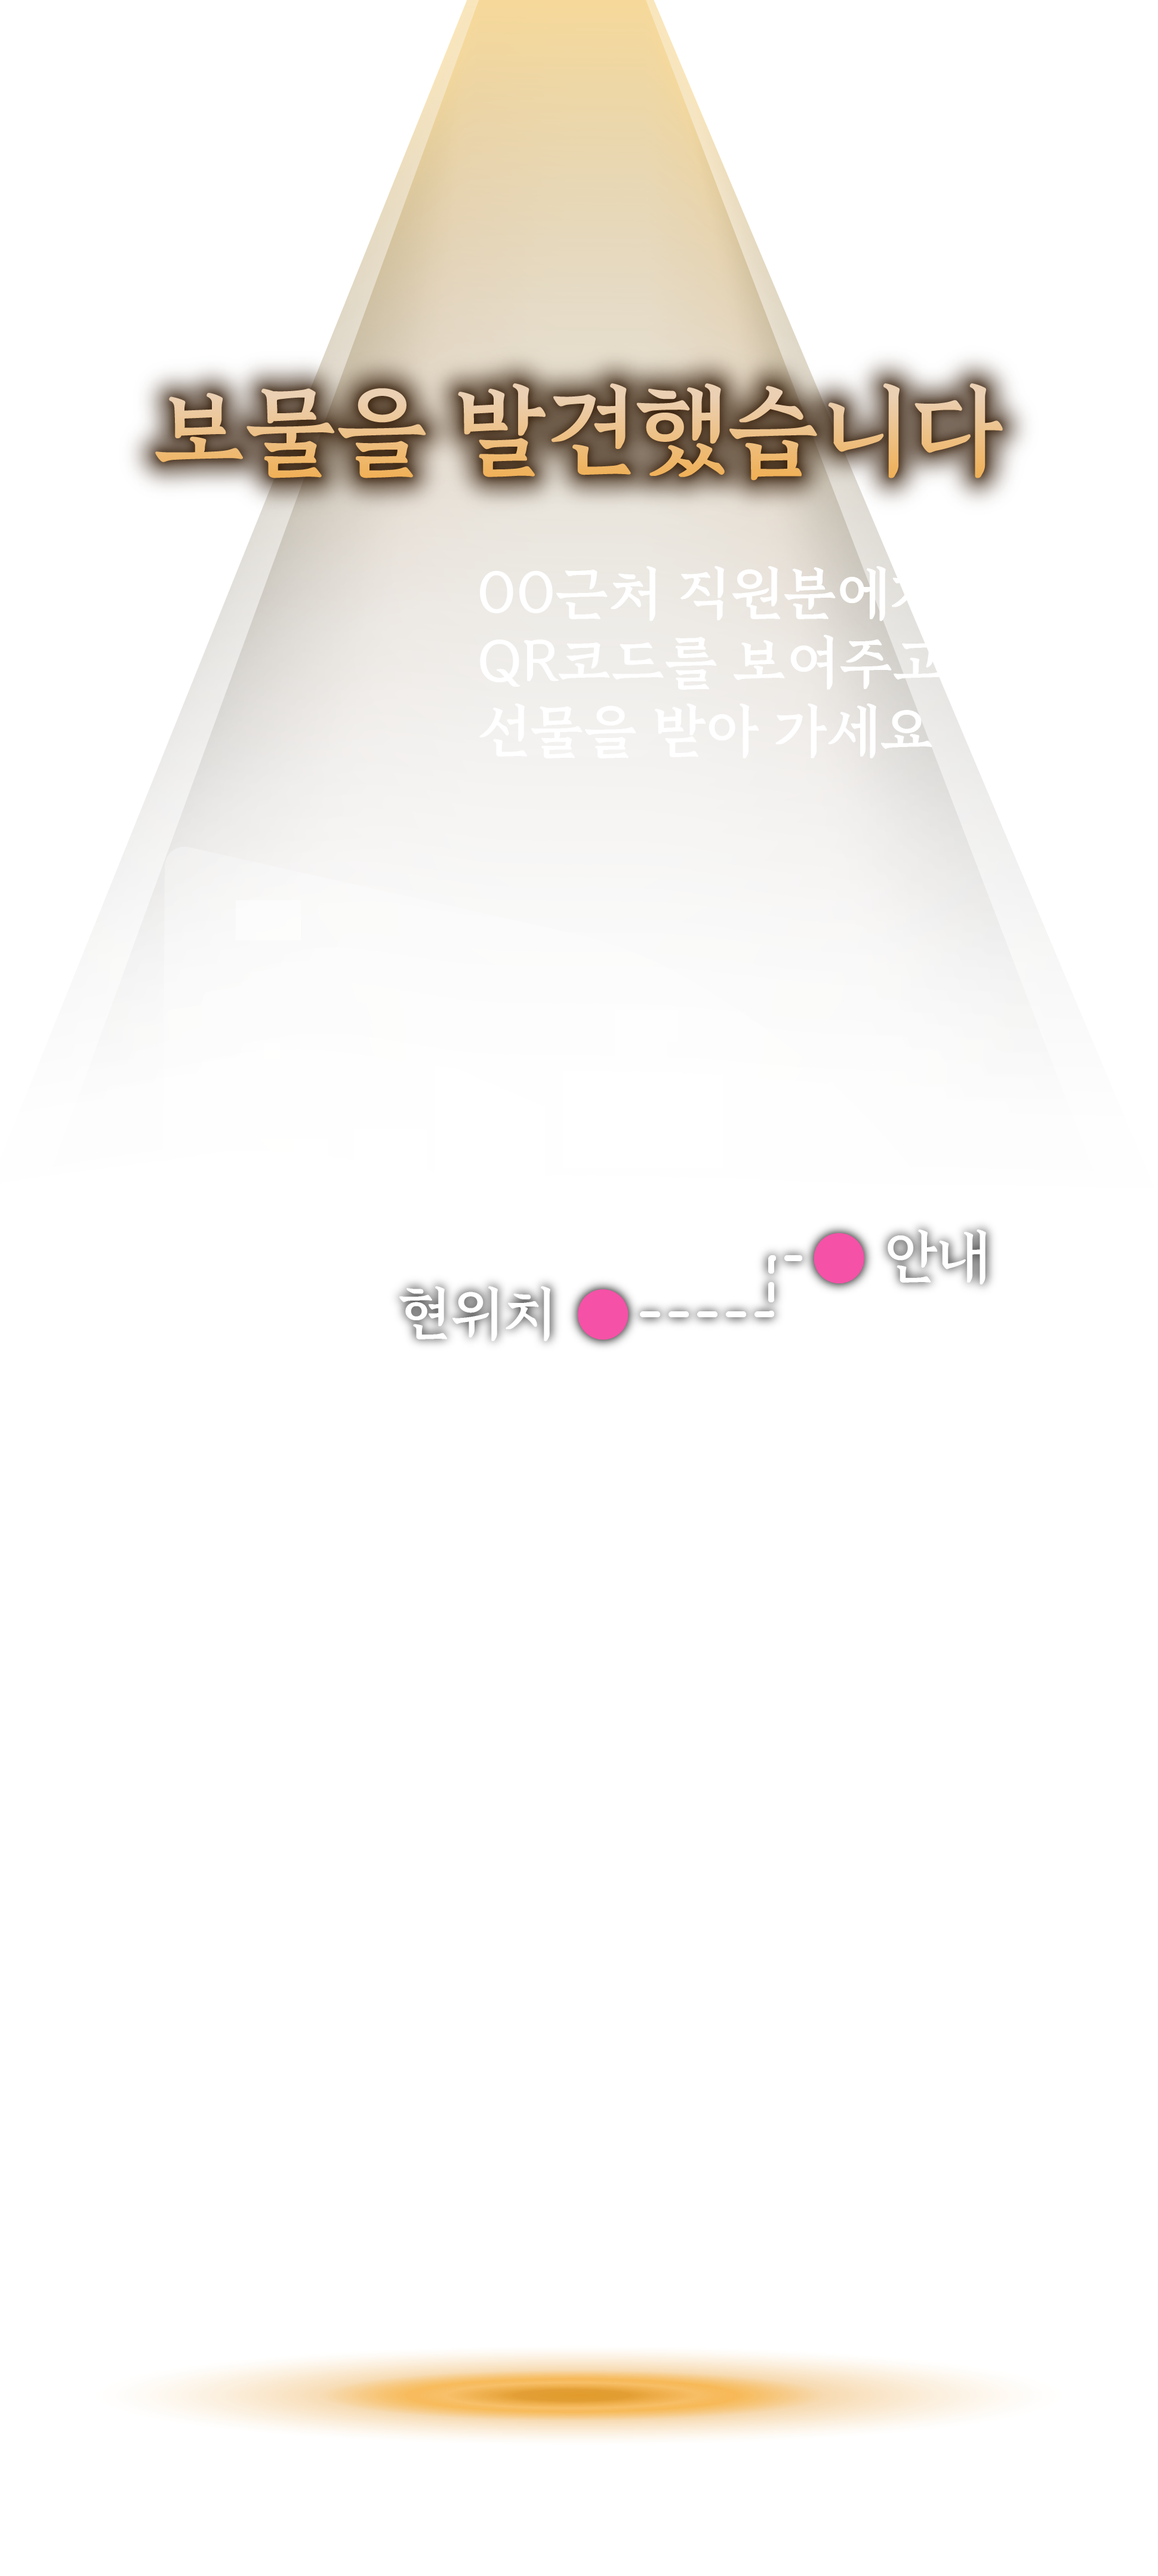
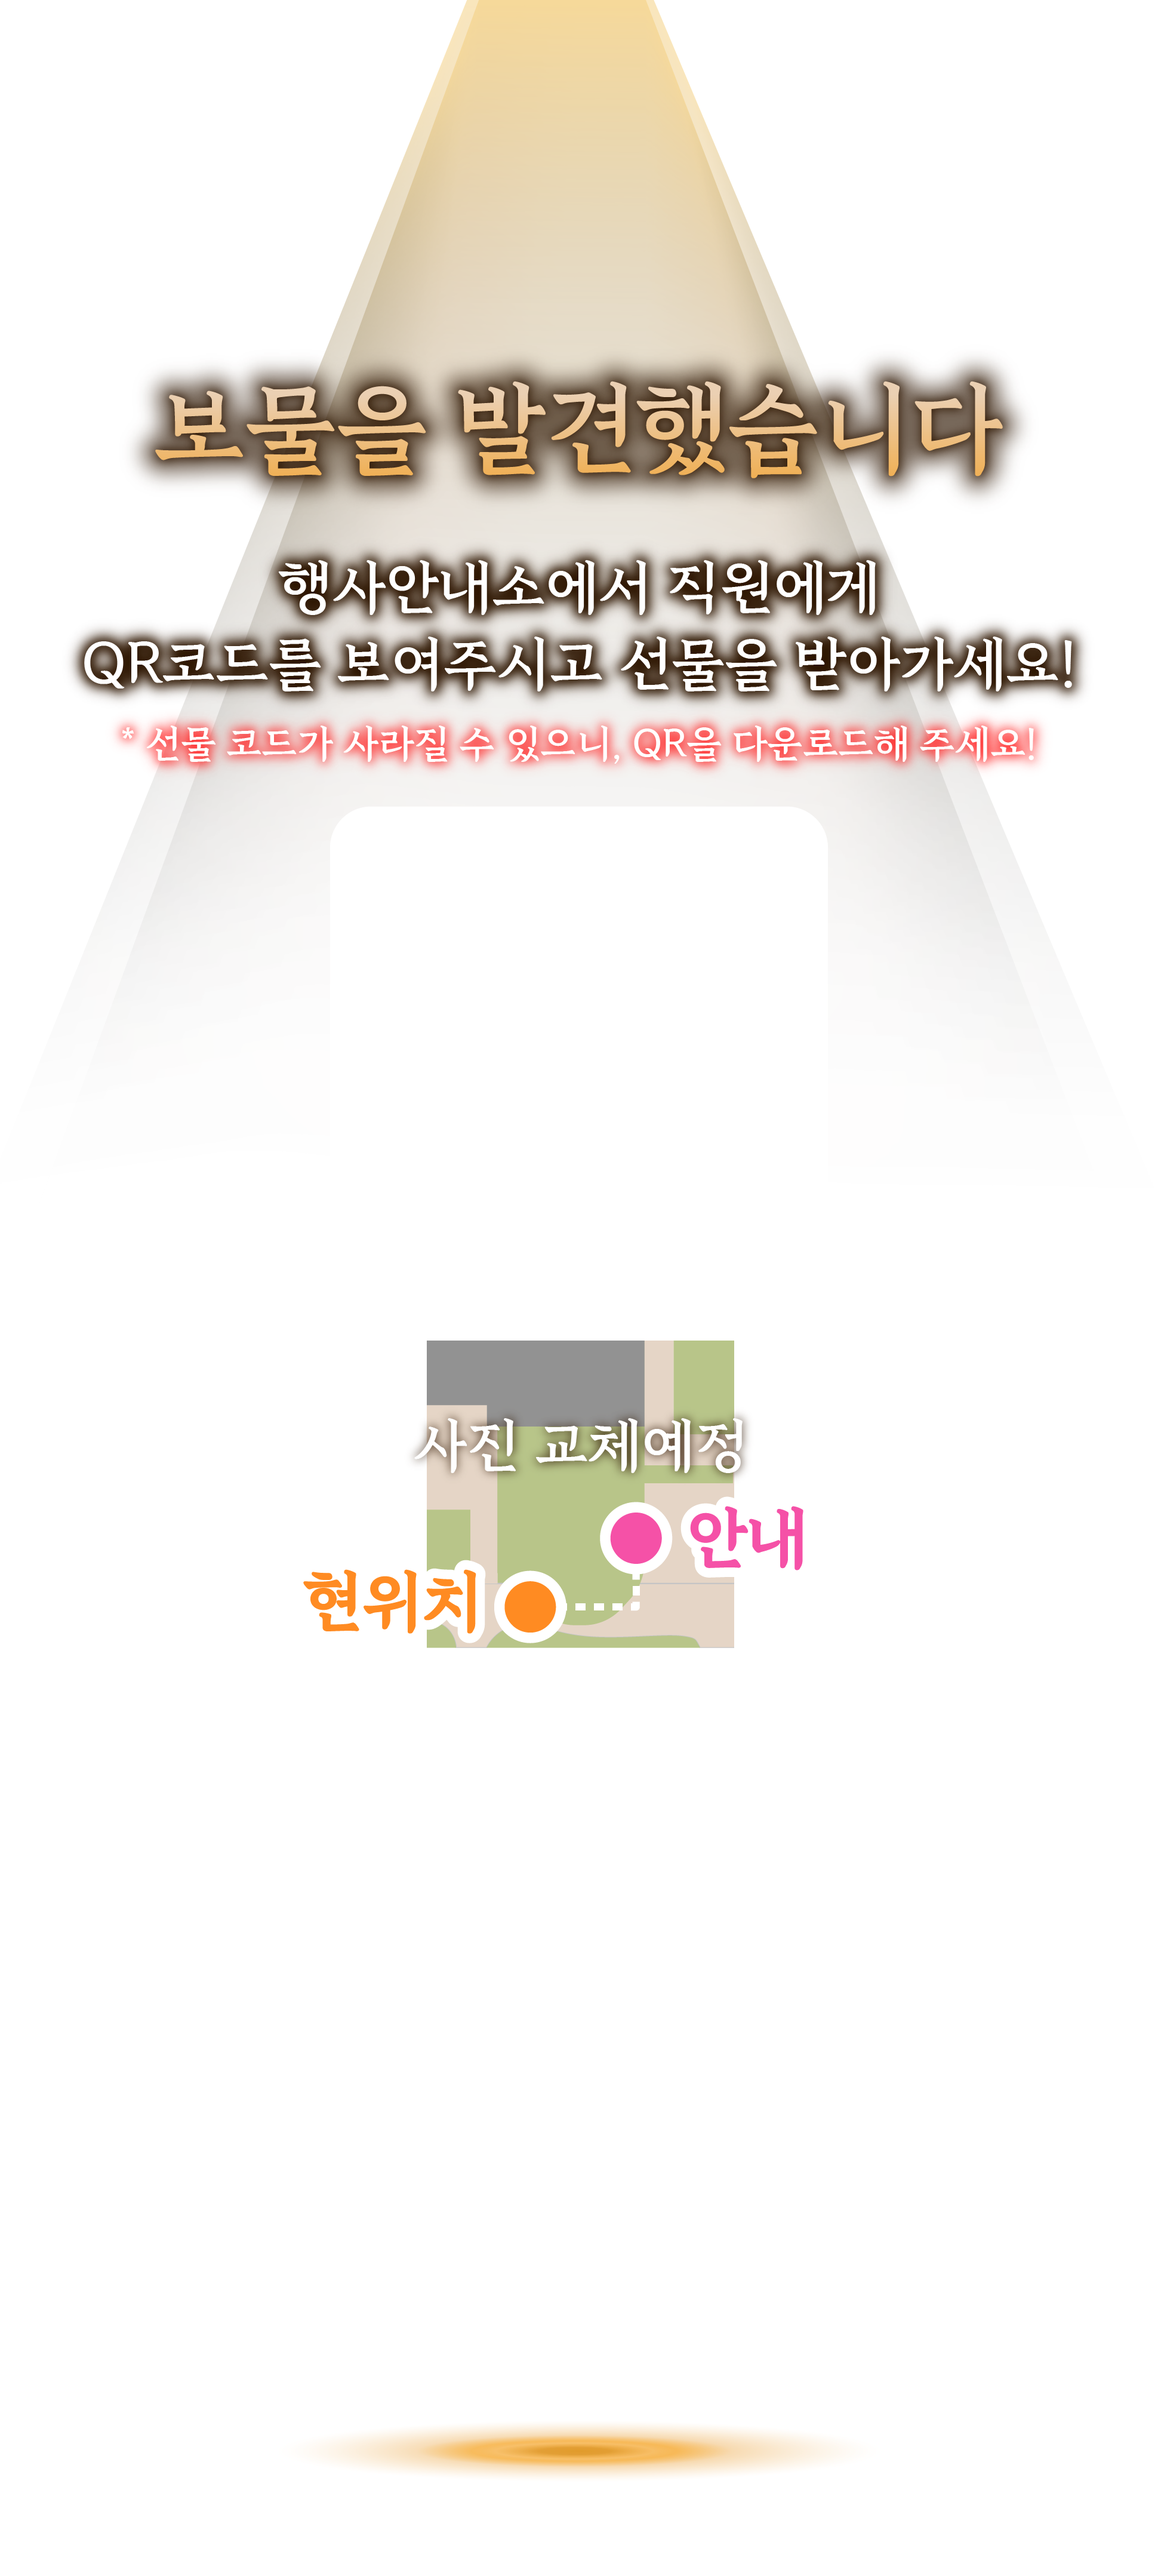
Update prize result page layout

diff --git a/public/play.html b/public/play.html
@@ -56,10 +56,13 @@
     .prize-stage{position:fixed;inset:0;overflow:hidden;background:transparent}
     .prize-layout{position:absolute;left:50%;top:50%;width:max(100vw,calc(100dvh * 970 / 2158));height:max(100dvh,calc(100vw * 2158 / 970));transform:translate(-50%,-50%);overflow:hidden}
     .prize-result{z-index:1;object-fit:cover}
-    .prize-character{position:absolute;left:50%;bottom:4.4%;width:61%;max-height:45%;object-fit:contain;transform:translateX(-50%);z-index:3;pointer-events:none}
-    .prize-character.gold{bottom:6.2%}
+    .prize-character{position:absolute;left:50%;bottom:4.2%;width:31%;max-height:29%;object-fit:contain;transform:translateX(-50%);z-index:3;pointer-events:none}
+    .prize-character.gold{bottom:4.2%}
     .prize-confetti{inset:auto;left:50%;top:50%;width:120vw;height:120dvh;transform:translate(-50%,-50%);object-fit:cover;z-index:4;pointer-events:none}
-    .claim-qr{position:absolute;left:18.4%;top:21.5%;width:18.8%;aspect-ratio:1;z-index:5;background:#fff;padding:.8%;box-shadow:0 4px 10px rgba(0,0,0,.26)}
+    .claim-qr{position:absolute;left:28.4%;top:31.3%;width:43.2%;aspect-ratio:1;z-index:5;background:#fff;padding:1.5%;border-radius:6.5%;box-shadow:0 4px 10px rgba(0,0,0,.26)}
+    .claim-download{position:absolute;left:20.1%;top:65.7%;width:59.8%;z-index:5;display:block}
+    .claim-download img{display:block;width:100%;height:auto;pointer-events:none}
+    .claim-download:active{transform:scale(.96)}
     .claim-prize-name{display:none}
 
     .notice-panel{margin:auto;width:86%;padding:28px 22px;border-radius:22px;background:rgba(33,15,9,.82);border:1px solid rgba(255,225,170,.28);text-align:center;box-shadow:0 18px 40px rgba(0,0,0,.35)}
@@ -67,7 +70,6 @@
     .notice-panel p{margin:0;color:#ead1a7;line-height:1.6}
     .spinner{width:54px;height:54px;border:5px solid rgba(255,234,190,.25);border-top-color:#f7d378;border-radius:50%;animation:spin 1s linear infinite;margin:0 auto 22px}
     @keyframes spin{to{transform:rotate(360deg)}}
-    @media (max-height:720px){.claim-qr{width:17%;top:21.8%}}
   </style>
 </head>
 <body>
@@ -113,6 +115,7 @@
           <img class="fill-img prize-result" src="/gui/Result.png" alt="">
           <img id="prizeCharacter" class="prize-character" src="/gui/sequence/1.webp" alt="">
           <img id="claimQr" class="claim-qr" alt="상품 수령 QR">
+          <a id="claimQrDownload" class="claim-download" download="prize-qr.png" aria-label="QR 다운로드"><img src="/gui/Btn_qr.png" alt="QR 다운로드"></a>
           <div id="claimPrizeName" class="claim-prize-name"></div>
         </div>
       </div>
@@ -227,7 +230,9 @@
         const prizeCharacter=document.querySelector('#prizeCharacter');
         prizeCharacter.src=`/gui/sequence/${index}.webp`;
         prizeCharacter.classList.toggle('gold',data.result==='gold');
-        document.querySelector('#claimQr').src=`/qr?text=${encodeURIComponent(data.claimUrl)}`;
+        const qrUrl=`/qr?text=${encodeURIComponent(data.claimUrl)}`;
+        document.querySelector('#claimQr').src=qrUrl;
+        document.querySelector('#claimQrDownload').href=qrUrl;
         show('finished');
         return;
       }
